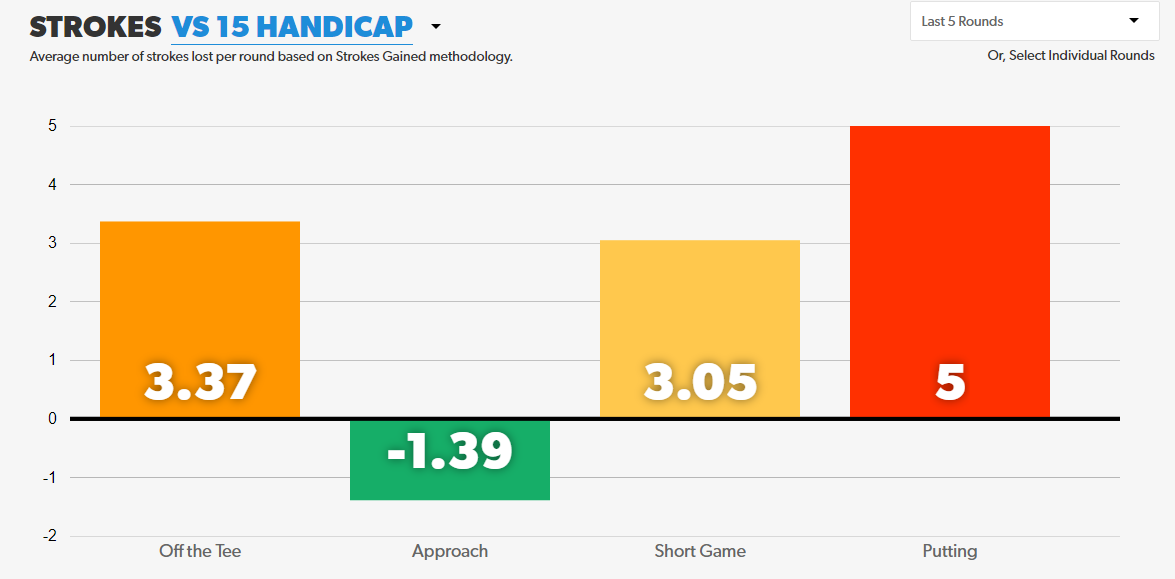
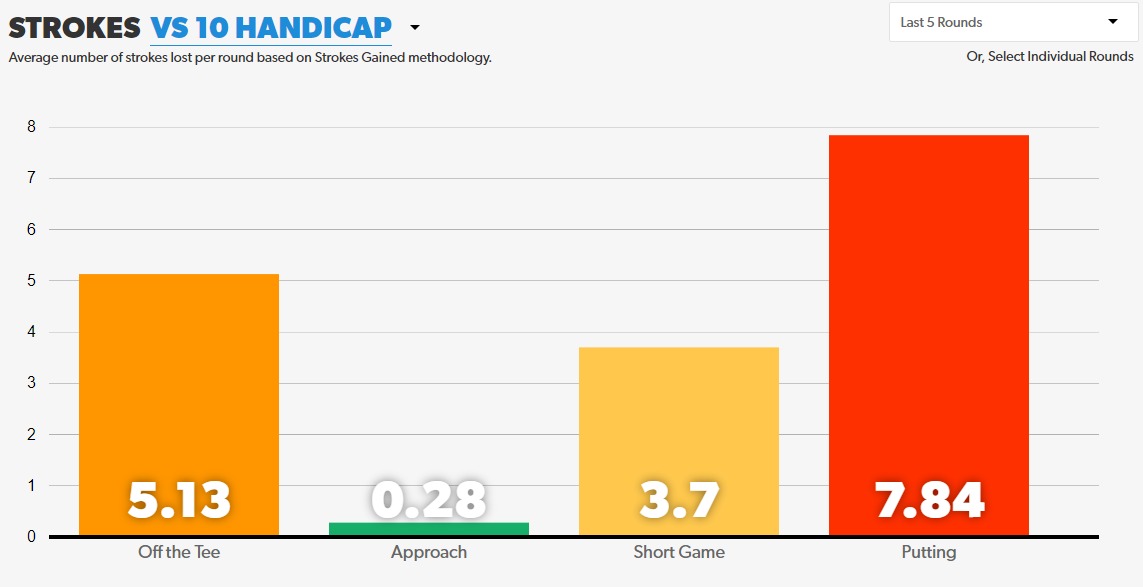
first image

diff --git a/_posts/2017-10-22-insights.md b/_posts/2017-10-22-insights.md
@@ -1,0 +1,24 @@
+---
+layout: post
+title: "Where to Improve"
+description: "Analysing my needs"
+categories: [analysis]
+tags: [analysis,stats,planning]
+---
+## What should I work on?
+Now I've decided to be structured about how I improve at golf, what do I work on? I've got a coach I am seeing once a month roughly and we are focusing on getting me inside on the way down and not flipping through release, slow progress but it is coming along.
+
+I've used Game Golf for a while as I mentioned, but lets see if we can look at the data to see where to focus. You can select a taregt handicap range and the rounds you want to analyse, and get a view of where you are loising strokes. I'm keen to get to low teens handicap as a starter, sollets measure myself against a 10 handicapper, and use the last 5 rounds as they are the most representative of my current game:
+
+![Insights](\img\insights_21oct.PNG){:class="img-responsive"}
+
+I'm pretty happy with the approach stat, shows what I usually think which is my mid to short iron game is my strength. I'm surprised my short game isn't hurting me more, but maybe my approach is helping there.
+
+Putting and off the tee are the obvious focus. Putting is something nice and easy to work on over the off season, so I will be focusing on that and talking more about it in the coming weeks.
+
+Off the tee is where my game really pivots I think, so lets focus there, and over the next few rounds I want to answer the following over the next few days:
+* Should I be using my driver?
+* What is my safe shot?
+* Where do I find my confidence.
+
+But the first thing to answer is can I drive the ball? 
